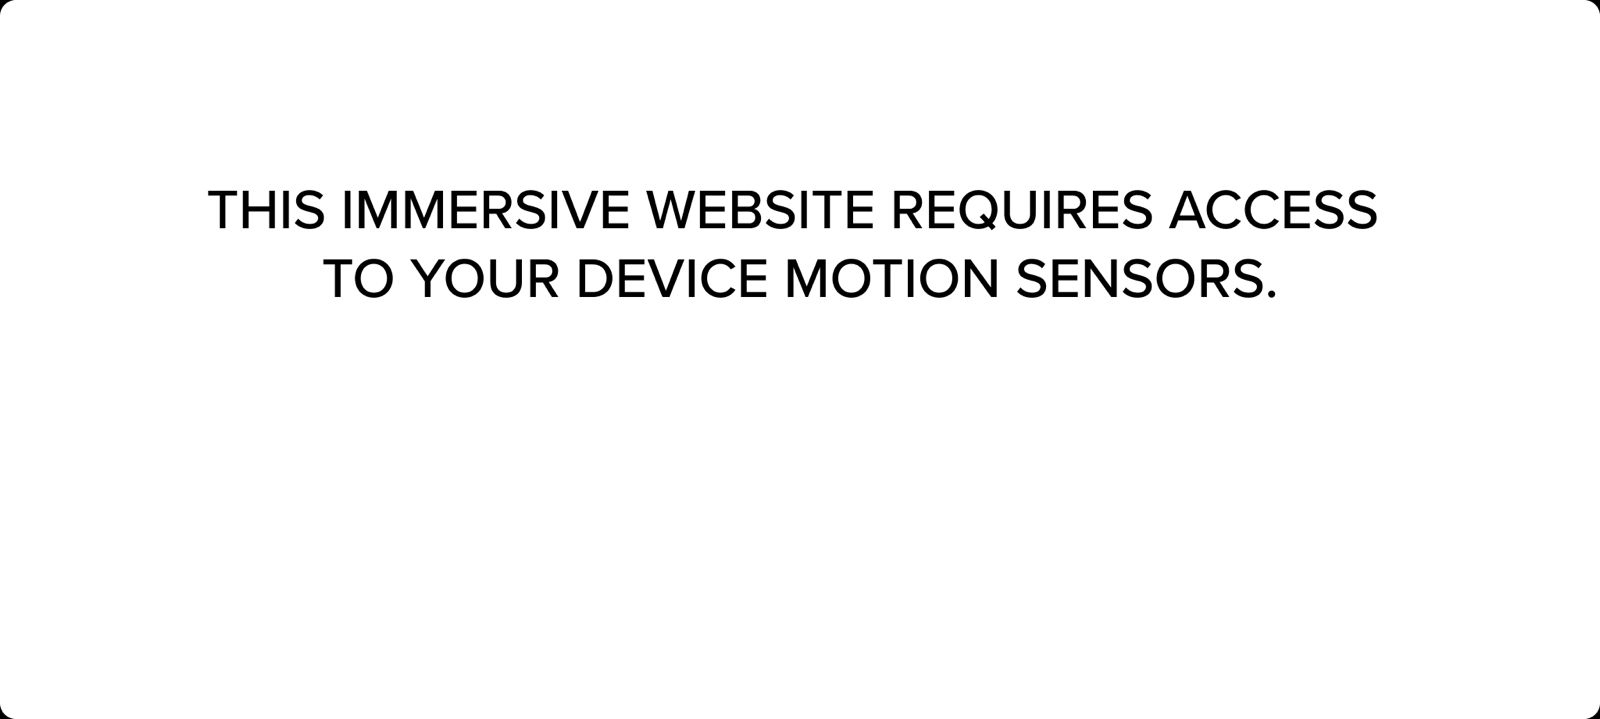
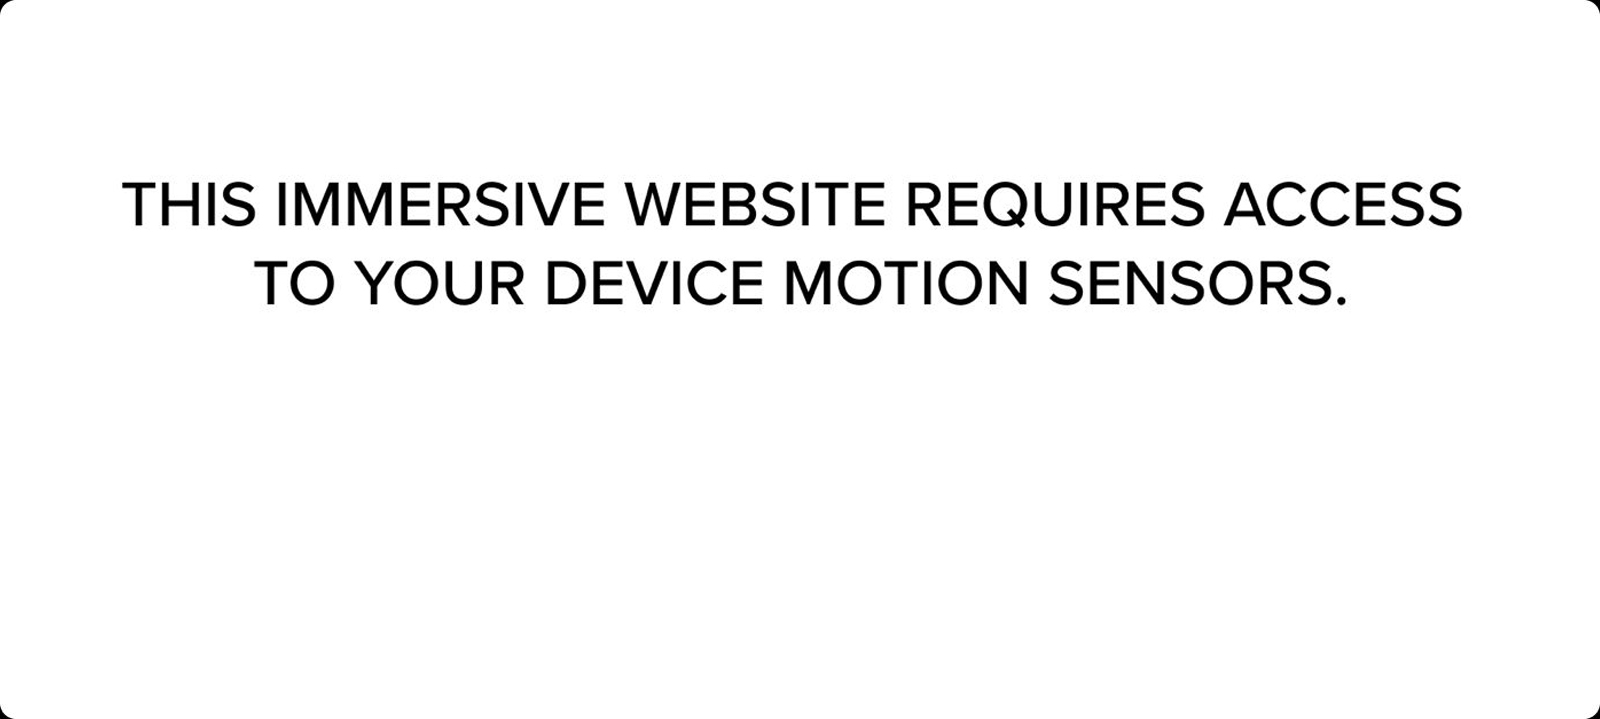
09

Changed region(s): [[0.0625, 0.2448, 0.9375, 0.4284]]

diff --git a/styles.css b/styles.css
@@ -88,7 +88,7 @@
 }
 
 #popup {
-    width: 80%;
+    width: 87%;
     position: absolute;
     z-index: 3;
 }
@@ -109,4 +109,19 @@
     border-color: #818181;
     padding: 0;
     border: none;
+}
+#policy{
+    width: 50%;
+    position: absolute;
+    top:70%;
+    background-color: #1E1E1E;
+    border-radius: 8px;
+    text-align: center;
+    color: white;
+    border-color: white;
+    border : 2px solid;
+    padding: 10px;
+}
+a{
+    color: white;
 }

diff --git a/index.html b/index.html
@@ -48,6 +48,7 @@
         <div id="OUTRO" class="flex hidden">
             <img id="screen_gameover" class="screens gameover" src="assets/text_gameover.png" alt="">
             <span id="steps-outro" class="steps">0 STEPS</span>
+            <div id="policy">Learn more about FA on <a href="biogenlinc.com/thinkFA">biogenlinc.com/thinkFA</a></div>
         </div>
 
         <img id="mention" src="assets/text_mentions.png" alt="">

diff --git a/components/component-camera-feed.js b/components/component-camera-feed.js
@@ -18,7 +18,7 @@ AFRAME.registerComponent('camera-feed', {
         video.style.width = '100%';
         video.style.height = '100%';
         video.style.objectFit = 'cover';
-        video.style.zIndex = '0';
+        video.style.zIndex = '5';
         video.style.opacity = '0.9';
         video.style.pointerEvents = 'none';
 
